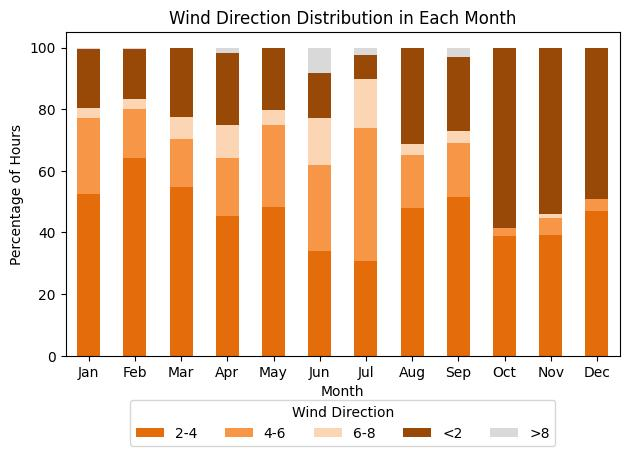
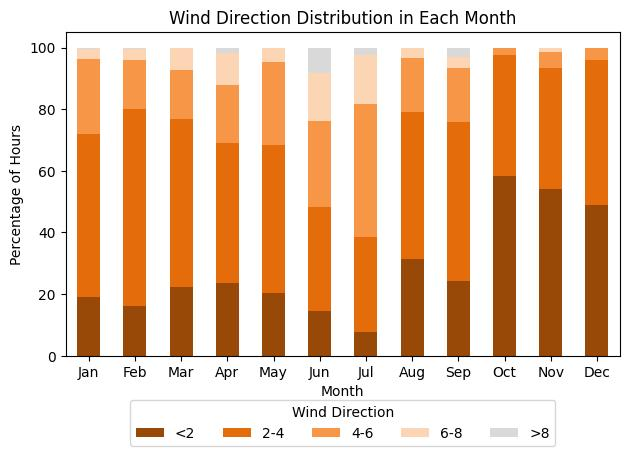
Update Met Summary

diff --git a/scripts/met_summary.py b/scripts/met_summary.py
@@ -53,7 +53,7 @@ def categorize_wind_speed(speed):
         return '6-8'
     else:
         return '>8'
-# Choose colors for wind direction categories
+# Choose colors for wind speed categories
 colors_ws = {'<2': '#984807', '2-4': '#E46C0A', '4-6': '#F79646', '6-8': '#FCD5B5', '>8':'#D9D9D9'}
 
 def categorize_mixing_height(mixht):
@@ -67,7 +67,7 @@ def categorize_mixing_height(mixht):
         return '1K-2K'
     else:
         return '>2000'
-# Choose colors for wind direction categories
+# Choose colors for MIXHT categories
 colors_mixht = {'<100': '#403152', '100-500': '#604A7B', '500-1K': '#B3A2C7', '1K-2K': '#FFFF00', '>2000':'#4F6228'}
 
 
@@ -153,6 +153,8 @@ plt.savefig(os.getcwd()+'/docs/met_summary_4winddirection_pie.jpg', bbox_inches=
 # PLOTS - 5 Wind Speeds
 plt.figure()
 pivot_df = citymet_df.pivot_table(index='month', columns='ws_category', values='percentage_ws', fill_value=0)
+pivot_df = pivot_df[['<2', '2-4', '4-6', '6-8', '>8']] 
+
 ax = pivot_df.plot(kind='bar', stacked=True, color=[colors_ws[col] for col in pivot_df.columns])
 plt.title('Wind Direction Distribution in Each Month')
 plt.xlabel('Month')
@@ -174,6 +176,7 @@ plt.savefig(os.getcwd()+'/docs/met_summary_5windspeed_pie.jpg', bbox_inches='tig
 # PLOTS - 5 MIXHT
 plt.figure()
 pivot_df = citymet_df.pivot_table(index='month', columns='mixht_category', values='percentage_mixht', fill_value=0)
+pivot_df = pivot_df[['<100', '100-500', '500-1K', '1K-2K', '>2000']] 
 ax = pivot_df.plot(kind='bar', stacked=True, color=[colors_mixht[col] for col in pivot_df.columns])
 plt.title('Wind Direction Distribution in Each Month')
 plt.xlabel('Month')
@@ -196,6 +199,7 @@ plt.savefig(os.getcwd()+'/docs/met_summary_5mixht_pie.jpg', bbox_inches='tight')
 # PLOTS - 6 TEMP
 plt.figure()
 pivot_df = citymet_df.pivot_table(index='month', columns='tempc_category', values='percentage_tempc', fill_value=0)
+pivot_df = pivot_df[['<15', '15-20', '20-25', '25-30', '30-35', '>35']] 
 ax = pivot_df.plot(kind='bar', stacked=True, color=[colors_tempc[col] for col in pivot_df.columns])
 plt.title('Wind Direction Distribution in Each Month')
 plt.xlabel('Month')
